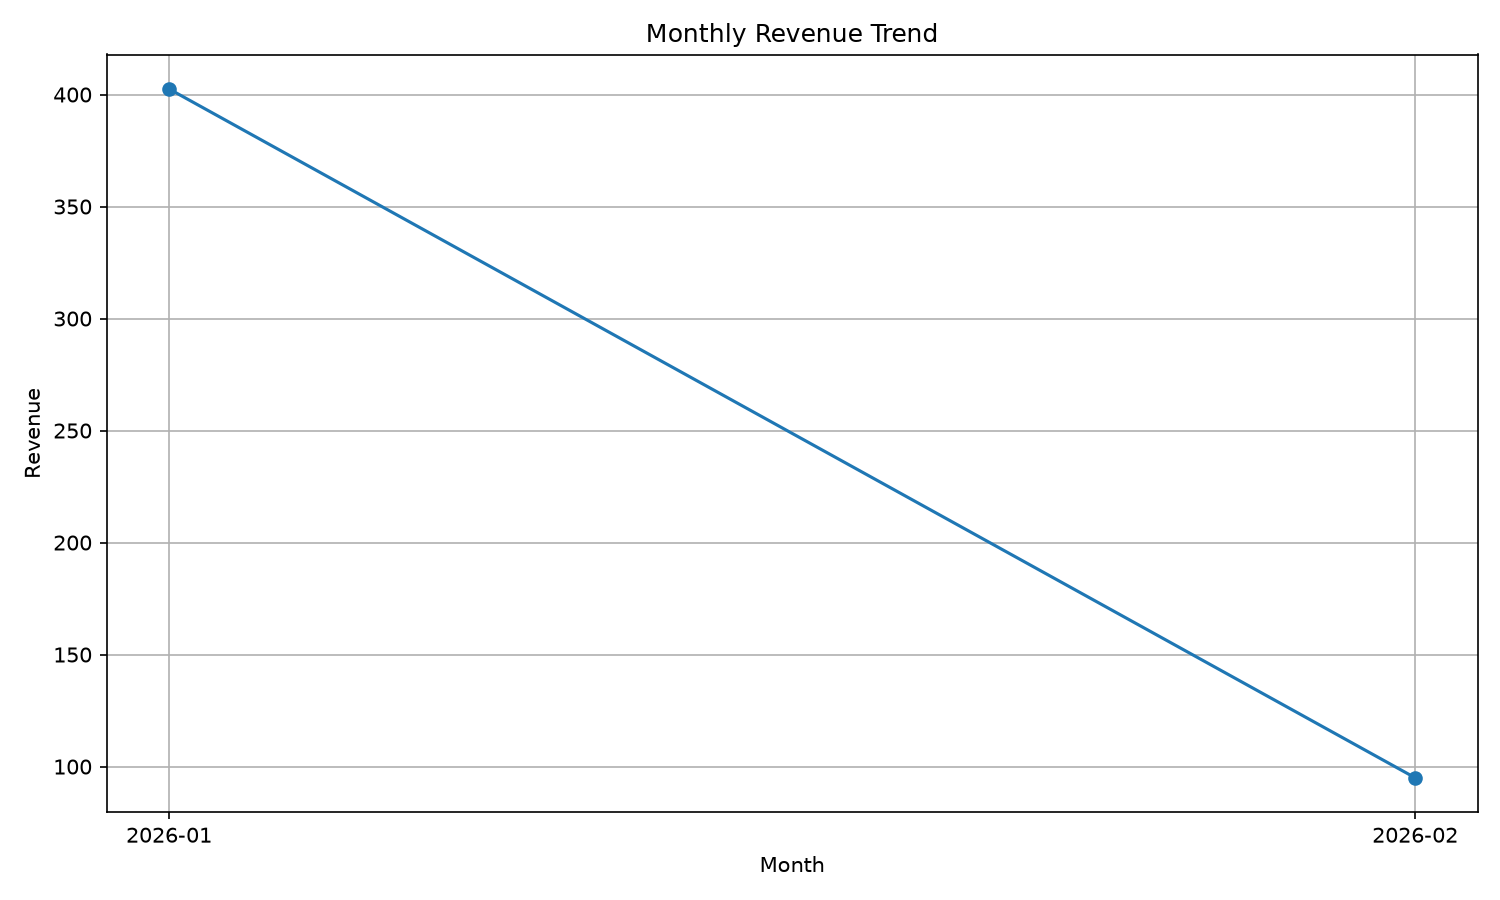
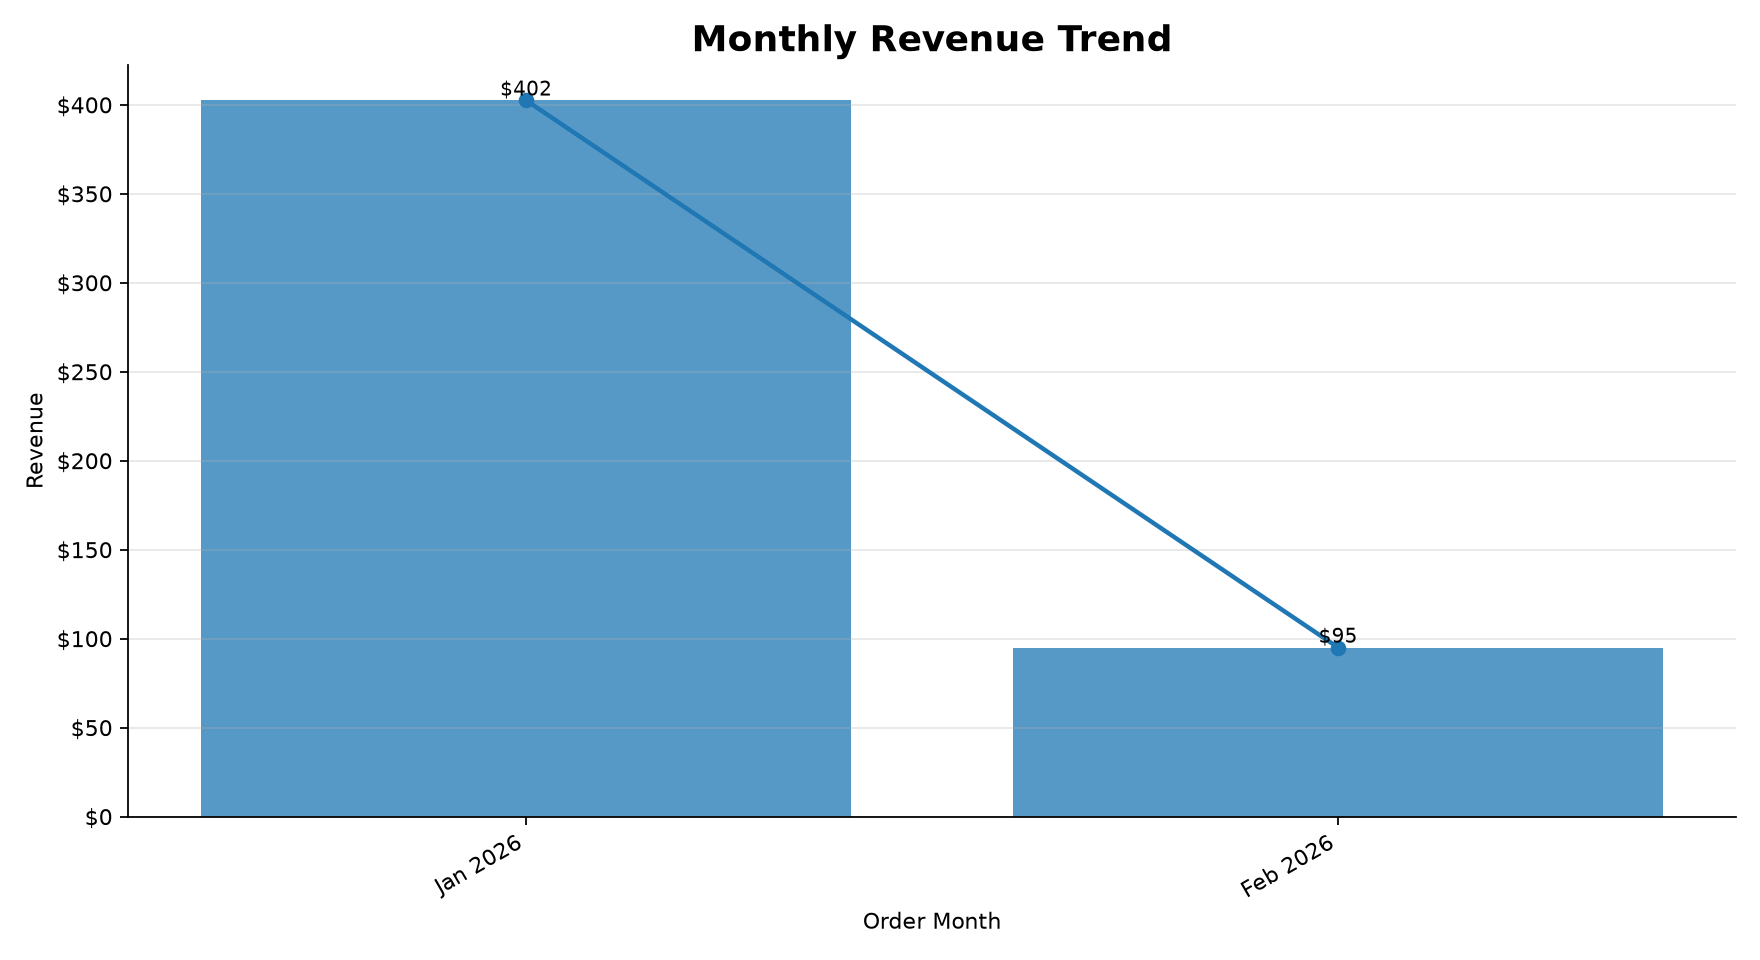
Improve sample data and revenue visualization

diff --git a/scripts/create_visualizations.py b/scripts/create_visualizations.py
@@ -4,12 +4,12 @@ from pathlib import Path
 import csv
 
 import matplotlib.pyplot as plt
+from matplotlib.ticker import FuncFormatter
 
 
 DATA_DIR = Path("data/sample")
 OUTPUT_DIR = Path("visualizations")
 OUTPUT_DIR.mkdir(parents=True, exist_ok=True)
-
 
 ORDERS_FILE = DATA_DIR / "olist_orders_dataset.csv"
 ORDER_ITEMS_FILE = DATA_DIR / "olist_order_items_dataset.csv"
@@ -17,8 +17,18 @@ OUTPUT_FILE = OUTPUT_DIR / "monthly_revenue.png"
 
 
 def read_csv(file_path):
+    if not file_path.exists():
+        raise FileNotFoundError(
+            f"Missing required file: {file_path}. "
+            "Run scripts/generate_sample_data.py first."
+        )
+
     with file_path.open("r", encoding="utf-8") as file:
         return list(csv.DictReader(file))
+
+
+def currency_formatter(value, _):
+    return f"${value:,.0f}"
 
 
 def create_monthly_revenue_chart():
@@ -33,7 +43,7 @@ def create_monthly_revenue_chart():
         order_month = datetime.strptime(
             purchase_timestamp,
             "%Y-%m-%d %H:%M:%S"
-        ).strftime("%Y-%m")
+        ).strftime("%b %Y")
 
         order_month_lookup[order_id] = order_month
 
@@ -50,17 +60,40 @@ def create_monthly_revenue_chart():
         if order_month:
             monthly_revenue[order_month] += total_sale_amount
 
-    months = sorted(monthly_revenue.keys())
-    revenue = [monthly_revenue[month] for month in months]
+    month_order = sorted(
+        monthly_revenue.keys(),
+        key=lambda month: datetime.strptime(month, "%b %Y"),
+    )
 
-    plt.figure(figsize=(10, 6))
-    plt.plot(months, revenue, marker="o")
-    plt.title("Monthly Revenue Trend")
-    plt.xlabel("Month")
-    plt.ylabel("Revenue")
-    plt.grid(True)
+    revenue = [monthly_revenue[month] for month in month_order]
+
+    fig, ax = plt.subplots(figsize=(11, 6))
+
+    ax.bar(month_order, revenue, alpha=0.75)
+    ax.plot(month_order, revenue, marker="o", linewidth=2)
+
+    for index, value in enumerate(revenue):
+        ax.text(
+            index,
+            value,
+            f"${value:,.0f}",
+            ha="center",
+            va="bottom",
+            fontsize=9,
+        )
+
+    ax.set_title("Monthly Revenue Trend", fontsize=16, fontweight="bold")
+    ax.set_xlabel("Order Month")
+    ax.set_ylabel("Revenue")
+    ax.yaxis.set_major_formatter(FuncFormatter(currency_formatter))
+    ax.grid(axis="y", alpha=0.3)
+
+    ax.spines["top"].set_visible(False)
+    ax.spines["right"].set_visible(False)
+
+    plt.xticks(rotation=30, ha="right")
     plt.tight_layout()
-    plt.savefig(OUTPUT_FILE, dpi=150)
+    plt.savefig(OUTPUT_FILE, dpi=160)
     plt.close()
 
     print(f"Created {OUTPUT_FILE}")